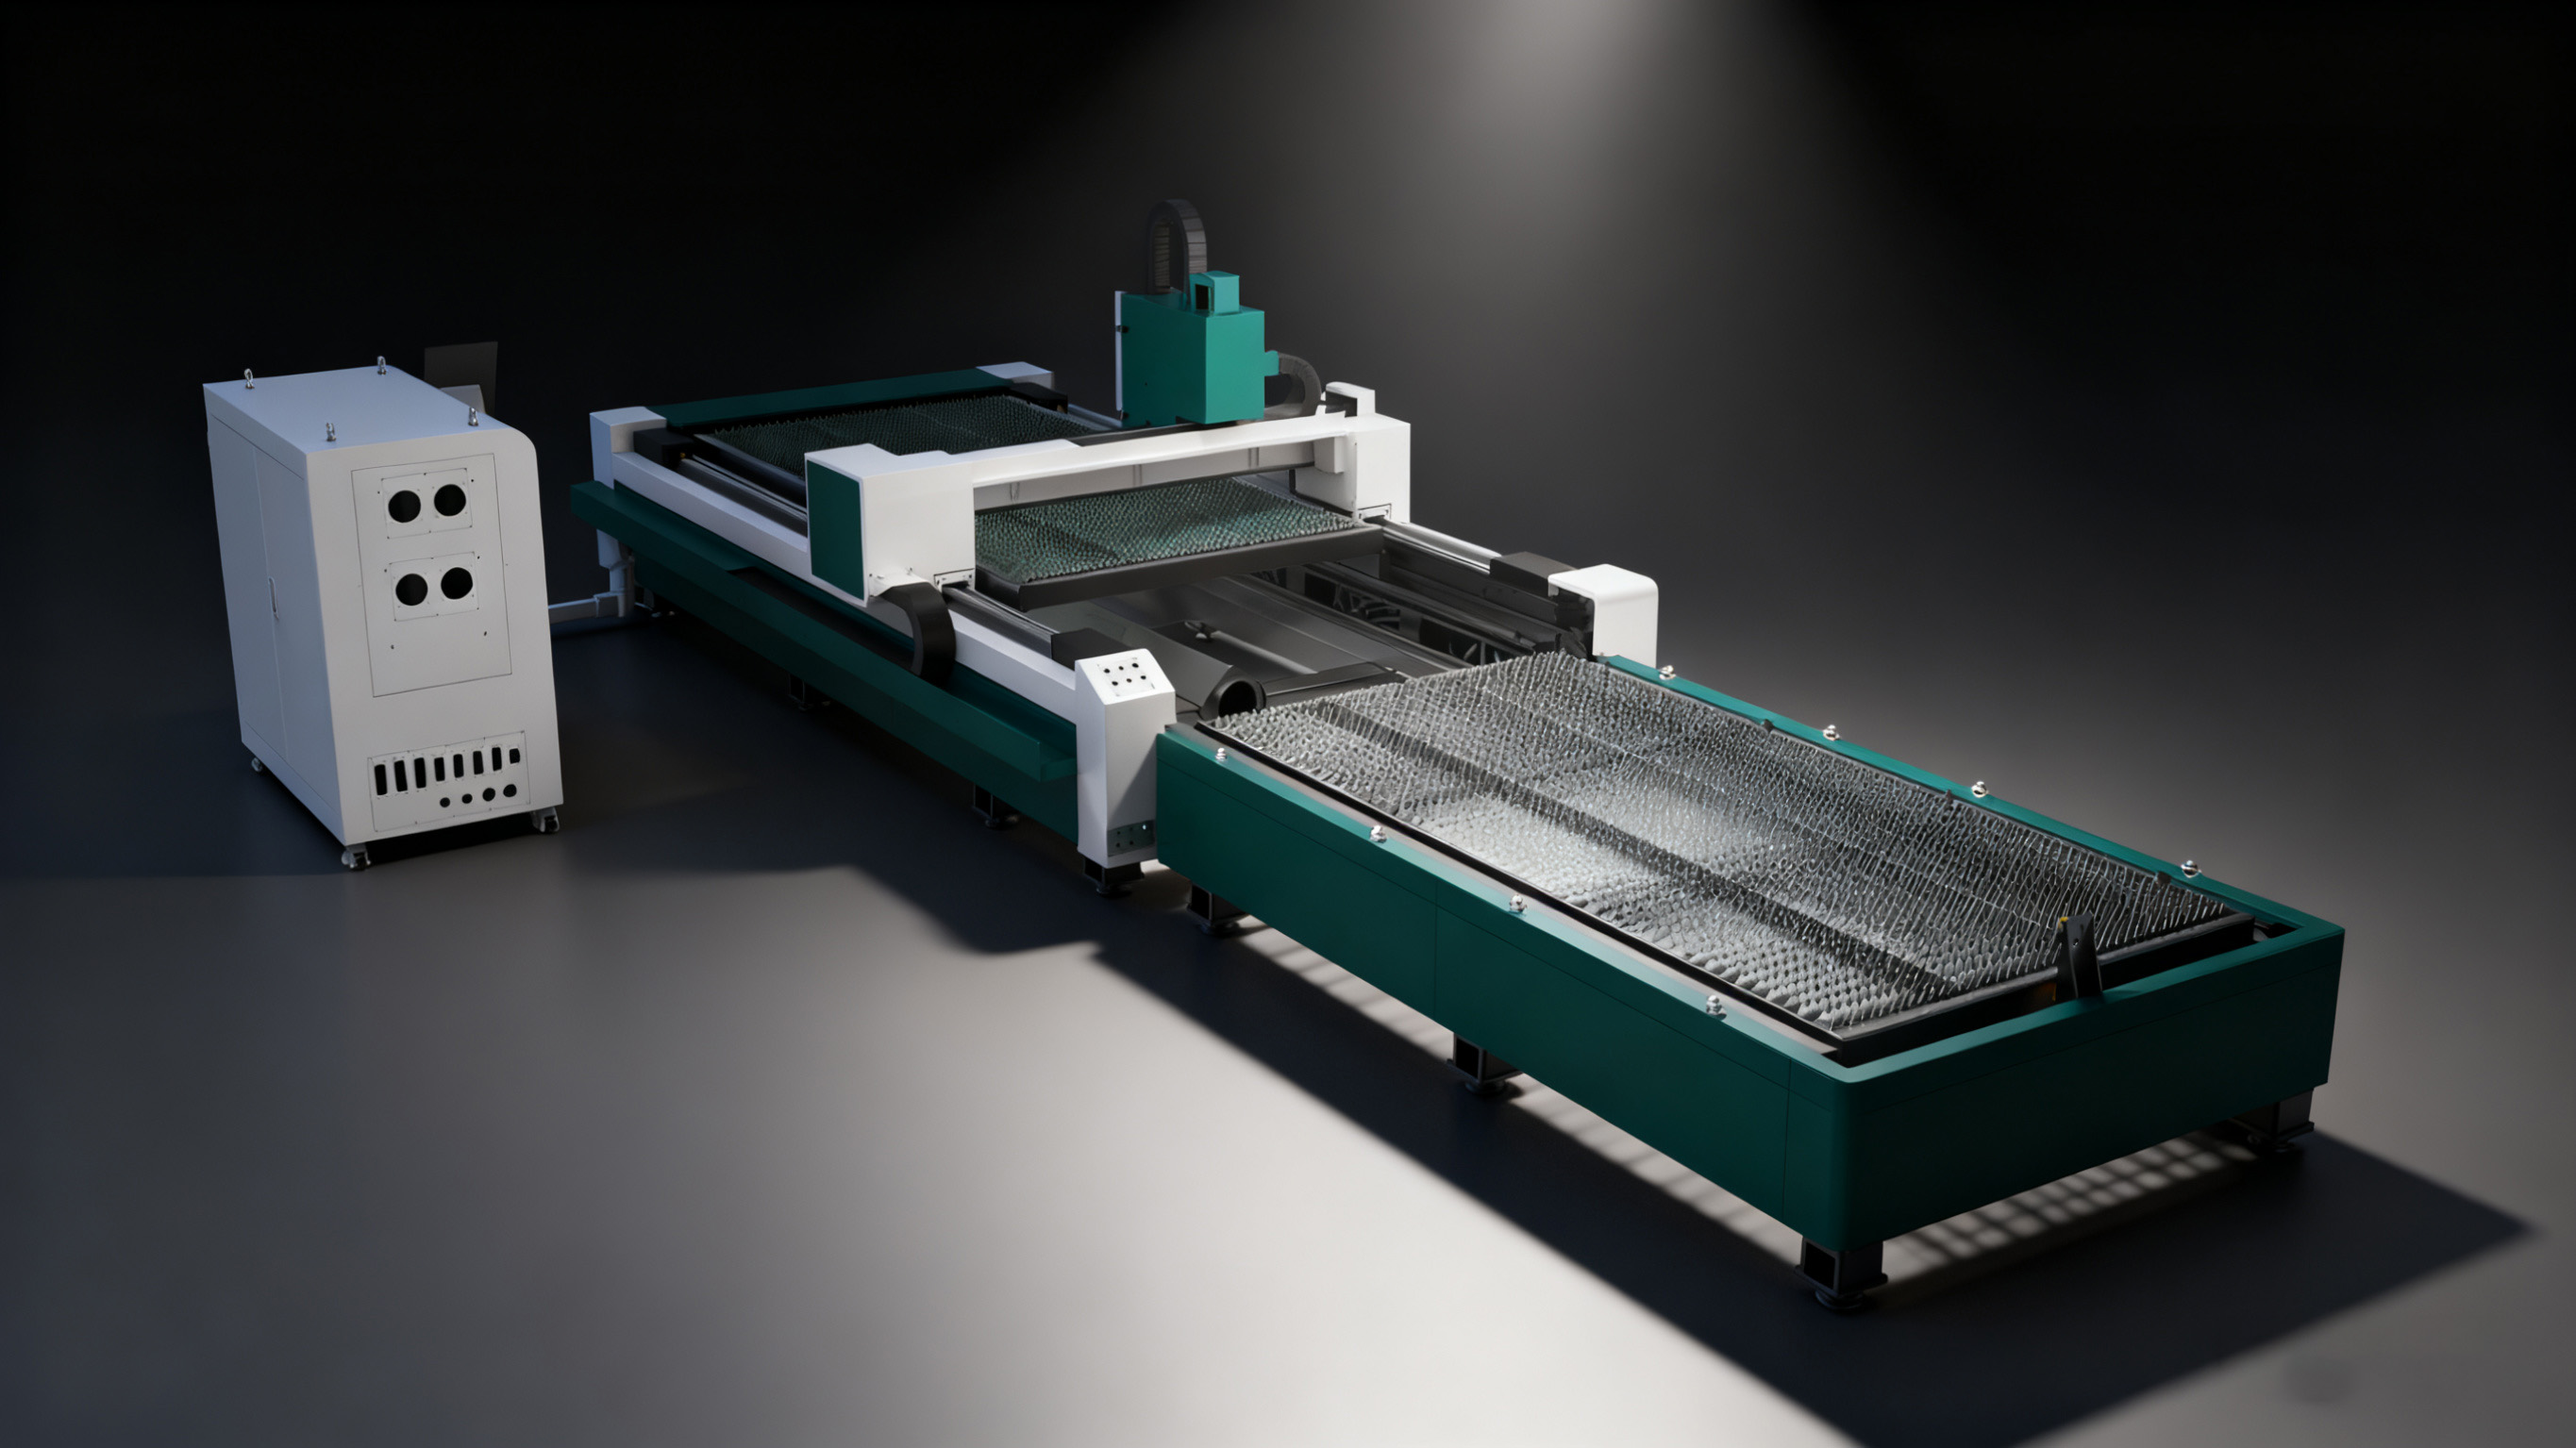
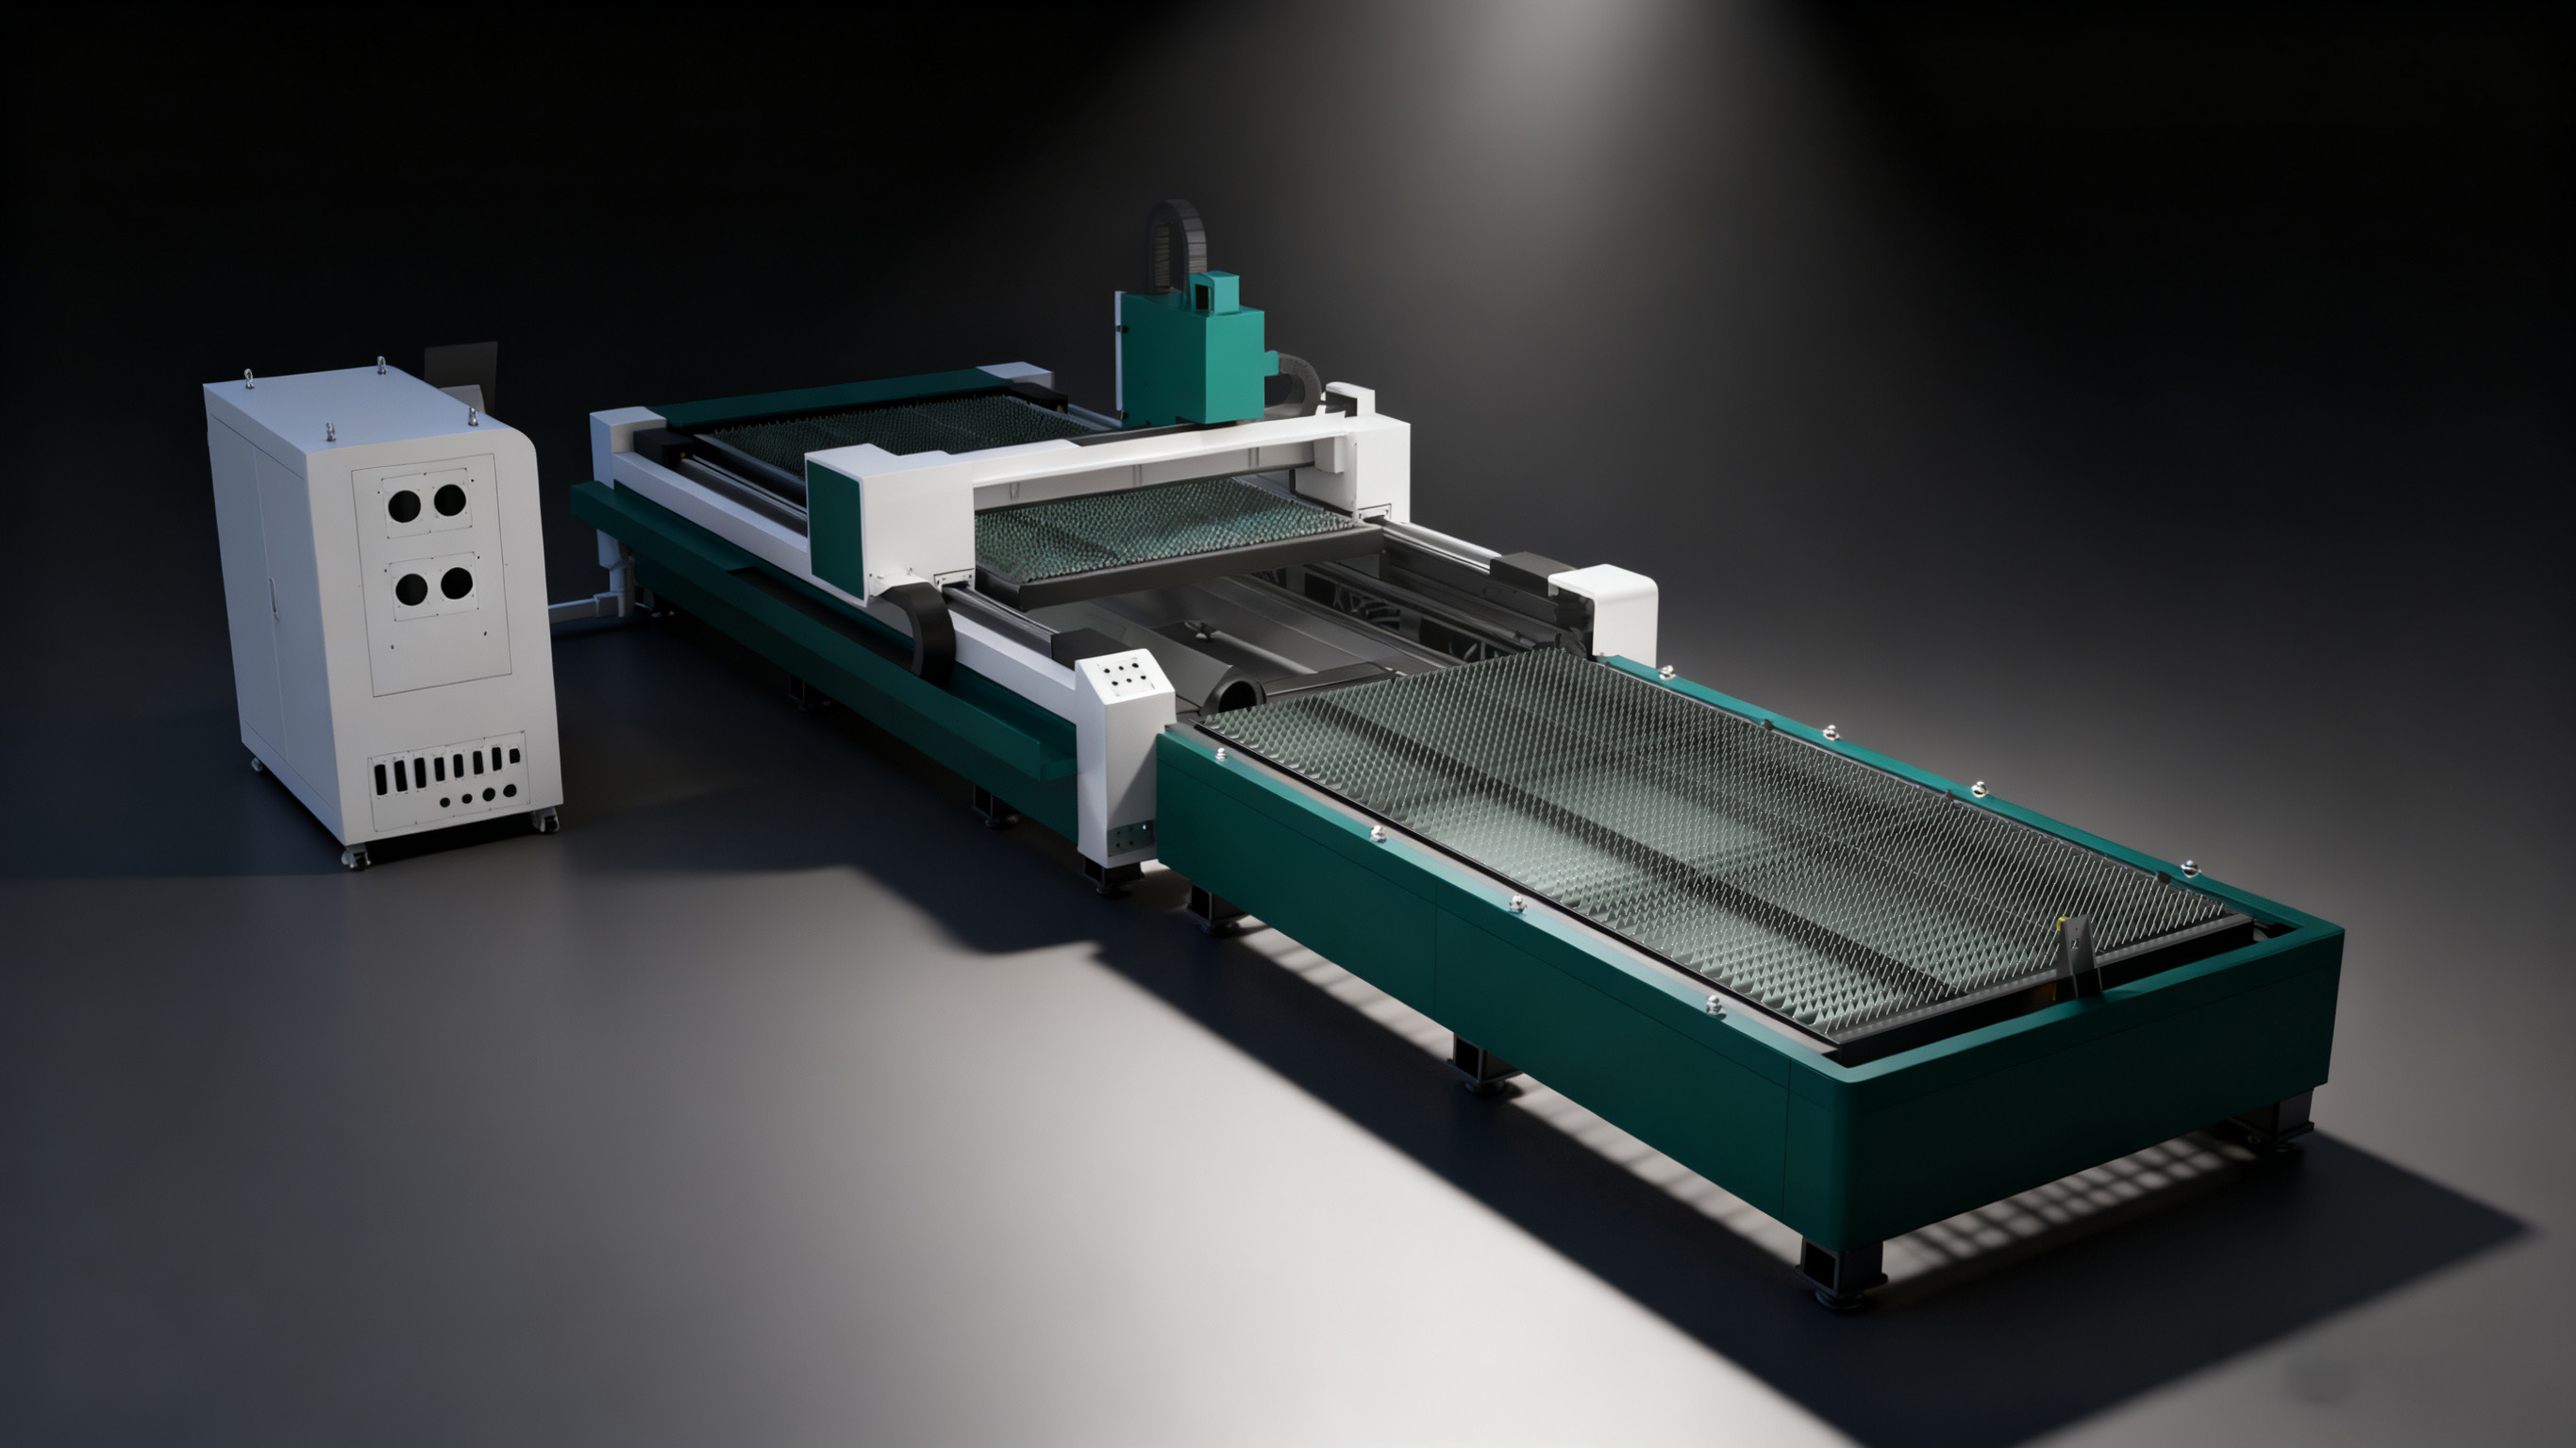
1

Changed region(s): [[0.467, 0.4287, 0.8718, 0.7349]]

diff --git a/products/laser-sheet-cutting/Series-B-Pro/index.html b/products/laser-sheet-cutting/Series-B-Pro/index.html
@@ -52,6 +52,13 @@
                                 linear-gradient(90deg, rgba(27, 76, 66, 0.1) 1px, transparent 1px);
                 background-size: 20px 20px;
             }
+            /* 新增：蓝色渐变文本工具类（可自定义渐变方向和色值） */
+    .text-gradient-blue {
+        background-image: linear-gradient(135deg, #2862e8, #7457aa); /* 浅蓝→深蓝渐变，可调整色值 */
+        -webkit-background-clip: text; /* webkit内核浏览器兼容 */
+        background-clip: text; /* 核心：将背景裁剪为文字形状 */
+        color: transparent; /* 文字本身透明，显示背景渐变 */
+    }
         }
     </style>
     <style>
@@ -540,7 +547,7 @@ nav a, .group a {
 <section class="relative overflow-hidden min-h-screen flex items-center">
     <!-- 背景Banner图 -->
     <div class="absolute inset-0 z-0">
-        <img src="../../../img/products/laser sheet cutting/B Plus/banner/laser sheet cutting B Plus 1-2-1 FINAL.jpg" 
+        <img src="../../../img/products/laser sheet cutting/B Pro/banner/laser sheet cutting B PRO final.jpg" 
              alt="激光板材切割机B Plus系列" 
              class="w-full h-full object-cover" />
         <!-- 半透明遮罩增强文字可读性 -->
@@ -553,9 +560,9 @@ nav a, .group a {
             <span class="inline-block px-4 py-1 bg-white/20 backdrop-blur-sm text-white rounded-full text-sm font-medium mb-4">高端增强型</span>
             
             <!-- 标题：白色文字增强对比度 -->
-            <h1 class="text-[clamp(2rem,6vw,4rem)] font-bold mb-6 text-white text-shadow-lg"> 
-                Senrytech B Pro系列 <br>自动上料激光板材切割机 
-            </h1>
+            <h1 class="text-[clamp(2rem,6vw,4rem)] font-bold mb-6 text-gradient-blue text-shadow-lg"> 
+    Senrytech B Pro系列 <br>自动上料激光板材切割机 
+</h1>
             
             <!-- 描述：保持清晰可读性 -->
             <p class="text-gray-100 text-lg md:text-xl mb-8 max-w-xl font-medium"> 
